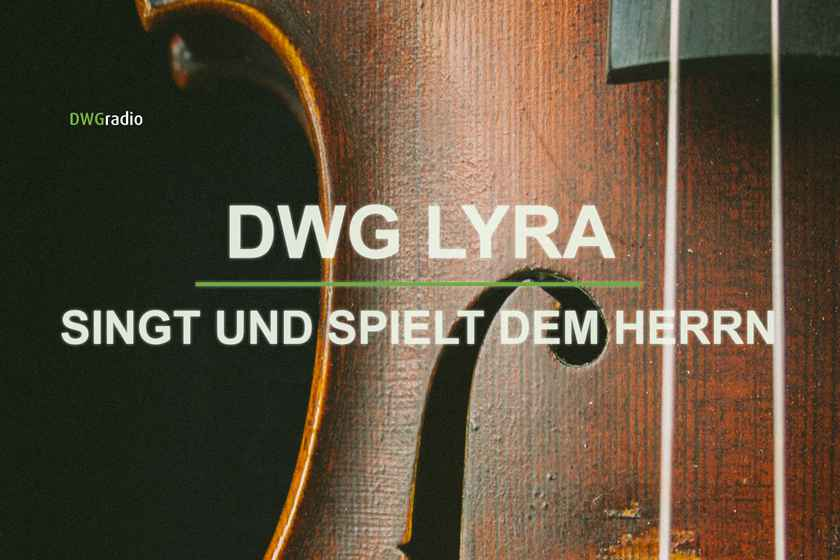
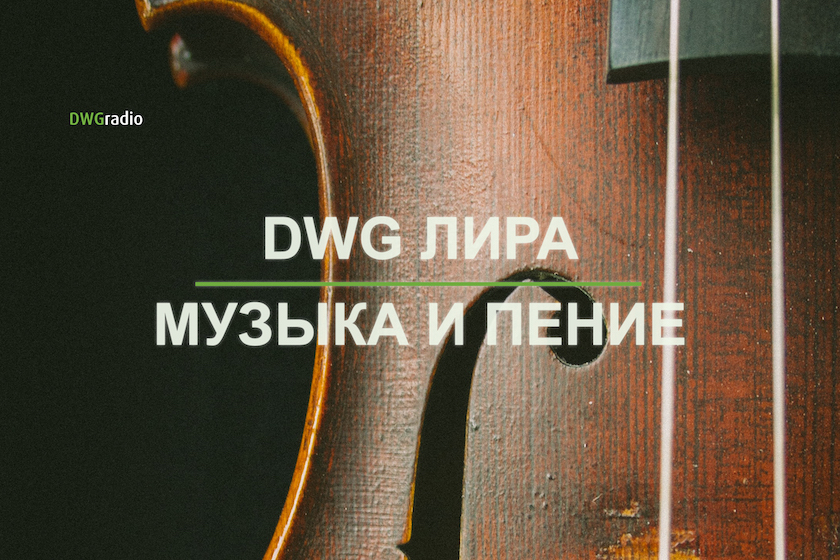
Add RU config and assets

diff --git a/src/stores/rootStore.ts b/src/stores/rootStore.ts
@@ -8,7 +8,7 @@ import InfoMenuStore from './infoMenuStore';
 import ProgramStore from './programStore';
 
 type Language = 'de' | 'cz' | 'ru';
-export const language: Language = 'de';
+export const language: Language = 'ru';
 
 class RootStore {
   infoMenuStore: InfoMenuStore;
